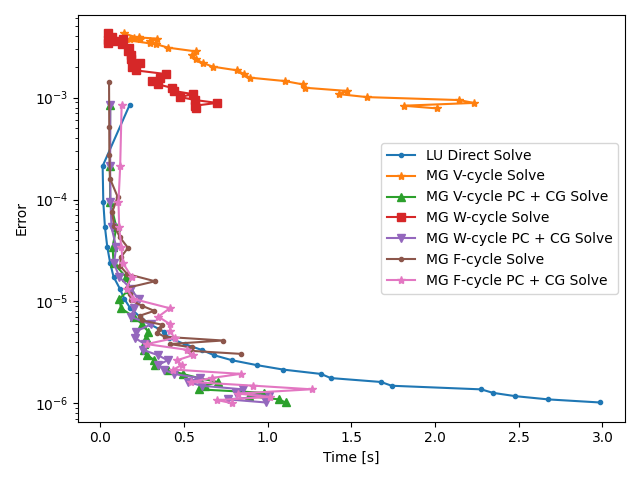
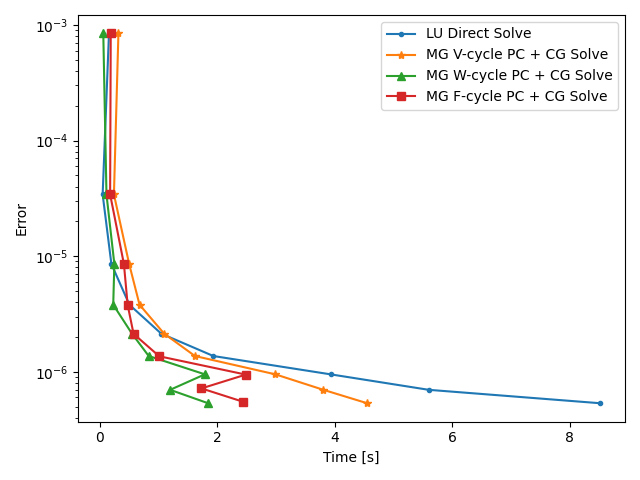
updates

diff --git a/main.py b/main.py
@@ -86,6 +86,7 @@ def compare_solvers(u, error, sub_solver, V, a, L, bcs, exact):
     errors = dict()
     cell_count = dict()
     global CG_solvers
+    global MG_solvers
     
     print('-'*20)
 
@@ -99,10 +100,11 @@ def compare_solvers(u, error, sub_solver, V, a, L, bcs, exact):
     #parameters = {"ksp_type": "cg", "pc_type": "none", 'mat_type': 'mat_free', 'ksp_monitor': None}
     #times, iterations, errors, cell_count = sub_solver(name, parameters, linear_var_solve, V, a, L, bcs, error, times, iterations, errors, cell_count, exact)
 
-    # ITS
-    name = 'MG V-cycle Solve'
-    parameters = {"ksp_type": "preonly", "pc_type": "mg", 'pc_mg_cycles': 'v'}
-    times, iterations, errors, cell_count = sub_solver(name, parameters, linear_var_solve, V, a, L, bcs, error, times, iterations, errors, cell_count, exact)
+    if MG_solvers:
+        # ITS
+        name = 'MG V-cycle Solve'
+        parameters = {"ksp_type": "preonly", "pc_type": "mg", 'pc_mg_cycles': 'v'}
+        times, iterations, errors, cell_count = sub_solver(name, parameters, linear_var_solve, V, a, L, bcs, error, times, iterations, errors, cell_count, exact)
     
     if CG_solvers:
         # RTOL
@@ -110,10 +112,11 @@ def compare_solvers(u, error, sub_solver, V, a, L, bcs, exact):
         parameters = {"ksp_type": "cg", "pc_type": "mg"}
         times, iterations, errors, cell_count = sub_solver(name, parameters, linear_var_solve, V, a, L, bcs, error, times, iterations, errors, cell_count, exact)
     
-    # ITS
-    name = 'MG W-cycle Solve'
-    parameters = {"ksp_type": "preonly", "pc_type": "mg", 'pc_mg_cycles': 'w'}
-    times, iterations, errors, cell_count = sub_solver(name, parameters, linear_var_solve, V, a, L, bcs, error, times, iterations, errors, cell_count, exact)
+    if MG_solvers:
+        # ITS
+        name = 'MG W-cycle Solve'
+        parameters = {"ksp_type": "preonly", "pc_type": "mg", 'pc_mg_cycles': 'w'}
+        times, iterations, errors, cell_count = sub_solver(name, parameters, linear_var_solve, V, a, L, bcs, error, times, iterations, errors, cell_count, exact)
     
     if CG_solvers:
         # RTOl
@@ -121,24 +124,24 @@ def compare_solvers(u, error, sub_solver, V, a, L, bcs, exact):
         parameters = {"ksp_type": "cg", "pc_type": "mg", 'pc_mg_cycles': 'w'}
         times, iterations, errors, cell_count = sub_solver(name, parameters, linear_var_solve, V, a, L, bcs, error, times, iterations, errors, cell_count, exact)
 
-    # ITS
-    name = 'MG F-cycle Solve'
-    # The mg_levels_ksp_max_it is half of original depth?
-#    parameters = {
-#   "ksp_type": "preonly",
-#   "pc_type": "mg",
-#   "pc_mg_type": "full",
-#   "mg_levels_ksp_type": "chebyshev",
-#   "mg_levels_ksp_max_it": 2,
-#   "mg_levels_pc_type": "jacobi"
-#    }
-    parameters = {
-   "ksp_type": "preonly",
-   "pc_type": "mg",
-   "pc_mg_type": "full",
-   "mg_levels_ksp_max_it": 1,
-    }
-    times, iterations, errors, cell_count = sub_solver(name, parameters, linear_var_solve, V, a, L, bcs, error, times, iterations, errors, cell_count, exact)
+    if MG_solvers:
+        # ITS
+        name = 'MG F-cycle Solve'
+        # The mg_levels_ksp_max_it is half of original depth?
+    #    parameters = {
+    #   "ksp_type": "preonly",
+    #   "pc_type": "mg",
+    #   "pc_mg_type": "full",
+    #   "mg_levels_ksp_type": "chebyshev",
+    #   "mg_levels_ksp_max_it": 2,
+    #   "mg_levels_pc_type": "jacobi"
+    #    }
+        parameters = {
+       "ksp_type": "preonly",
+       "pc_type": "mg",
+       "pc_mg_type": "full",
+        }
+        times, iterations, errors, cell_count = sub_solver(name, parameters, linear_var_solve, V, a, L, bcs, error, times, iterations, errors, cell_count, exact)
 
     if CG_solvers:
         # RTOL
@@ -274,18 +277,19 @@ def plot_gens(times, cells, errs, iters, subplotter, image_dir):
 if __name__ == '__main__':
     initial_start = time.time()
     run_type = 'mg-nmg'
-    CG_solvers = False
-    depth = 1
+    CG_solvers = True
+    MG_solvers = False
+    depth = 4
     family = 'Lagrange' #CG
     degree_FEM = 1
     min_mesh = 1
-    max_mesh = 30
+    max_mesh = 50
     image_dir = f'./images-d{depth}-f{family}-r{degree_FEM}-m{max_mesh}'
     if not os.path.exists(image_dir):
         os.makedirs(image_dir)
     
-    #mesh_list = np.arange(min_mesh, max_mesh)
-    mesh_list = [1, 5, 10, 15, 20, 25, 30, 35, 40]
+    mesh_list = np.arange(min_mesh, max_mesh)
+    #mesh_list = [1, 5, 10, 15, 20, 25, 30, 35, 40, 45, 50]
     # 20 is a good value for speed and good results
 
     # Current setup uses 1e-7 constant rtol
